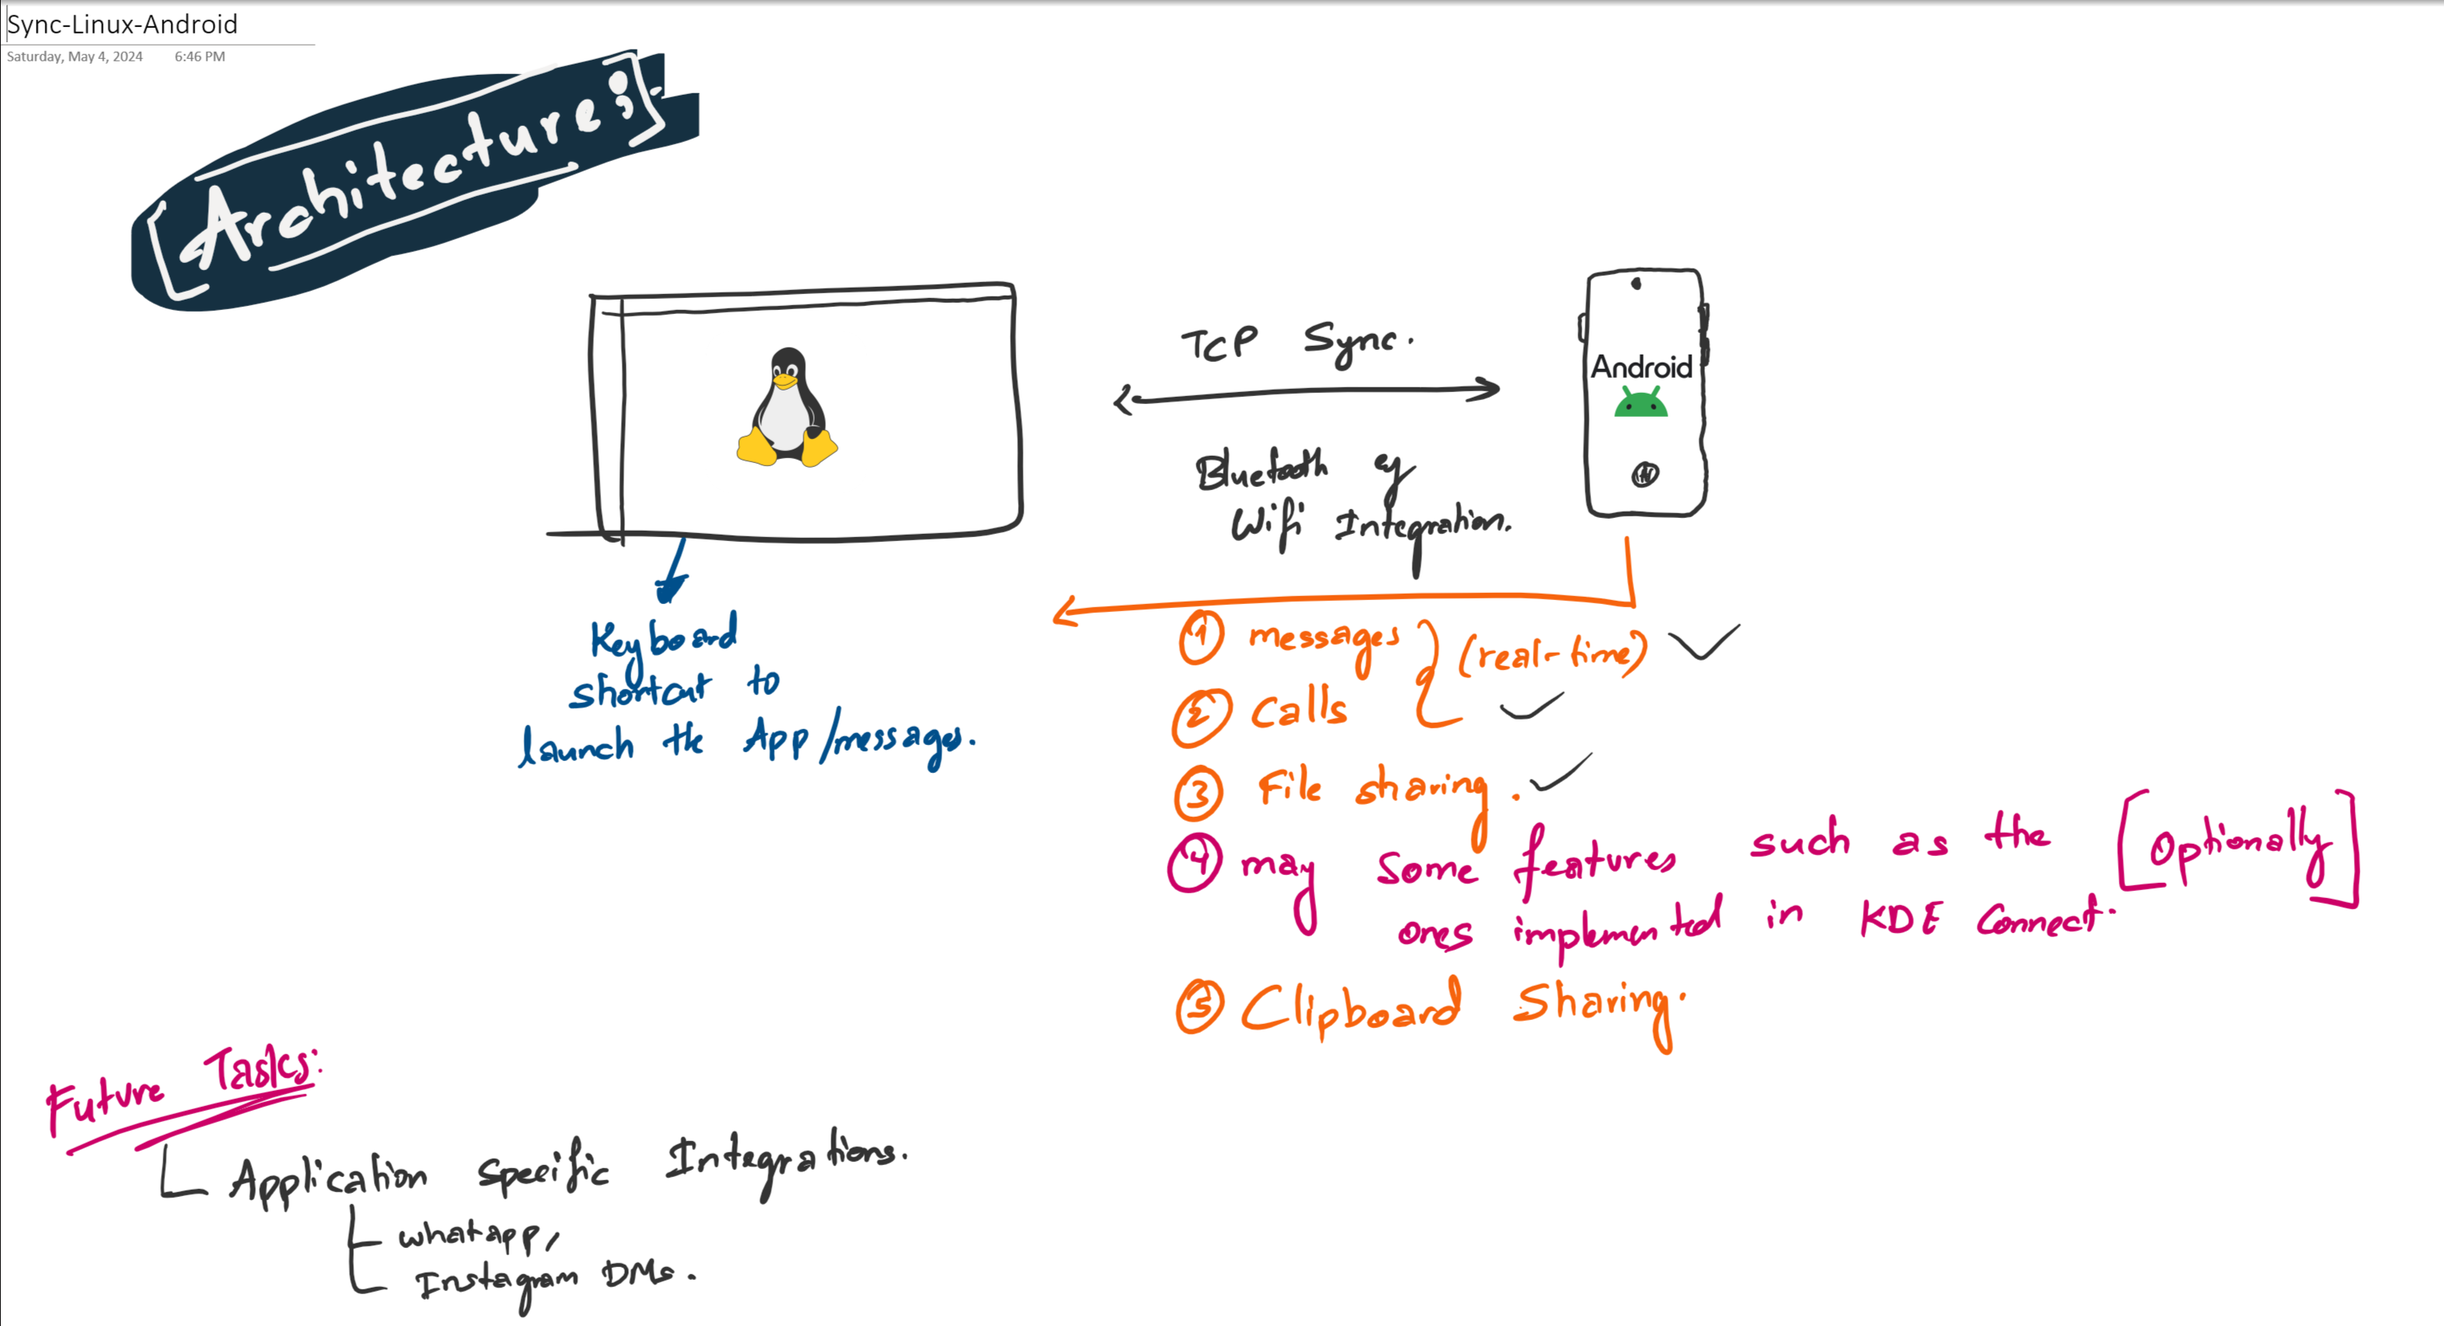
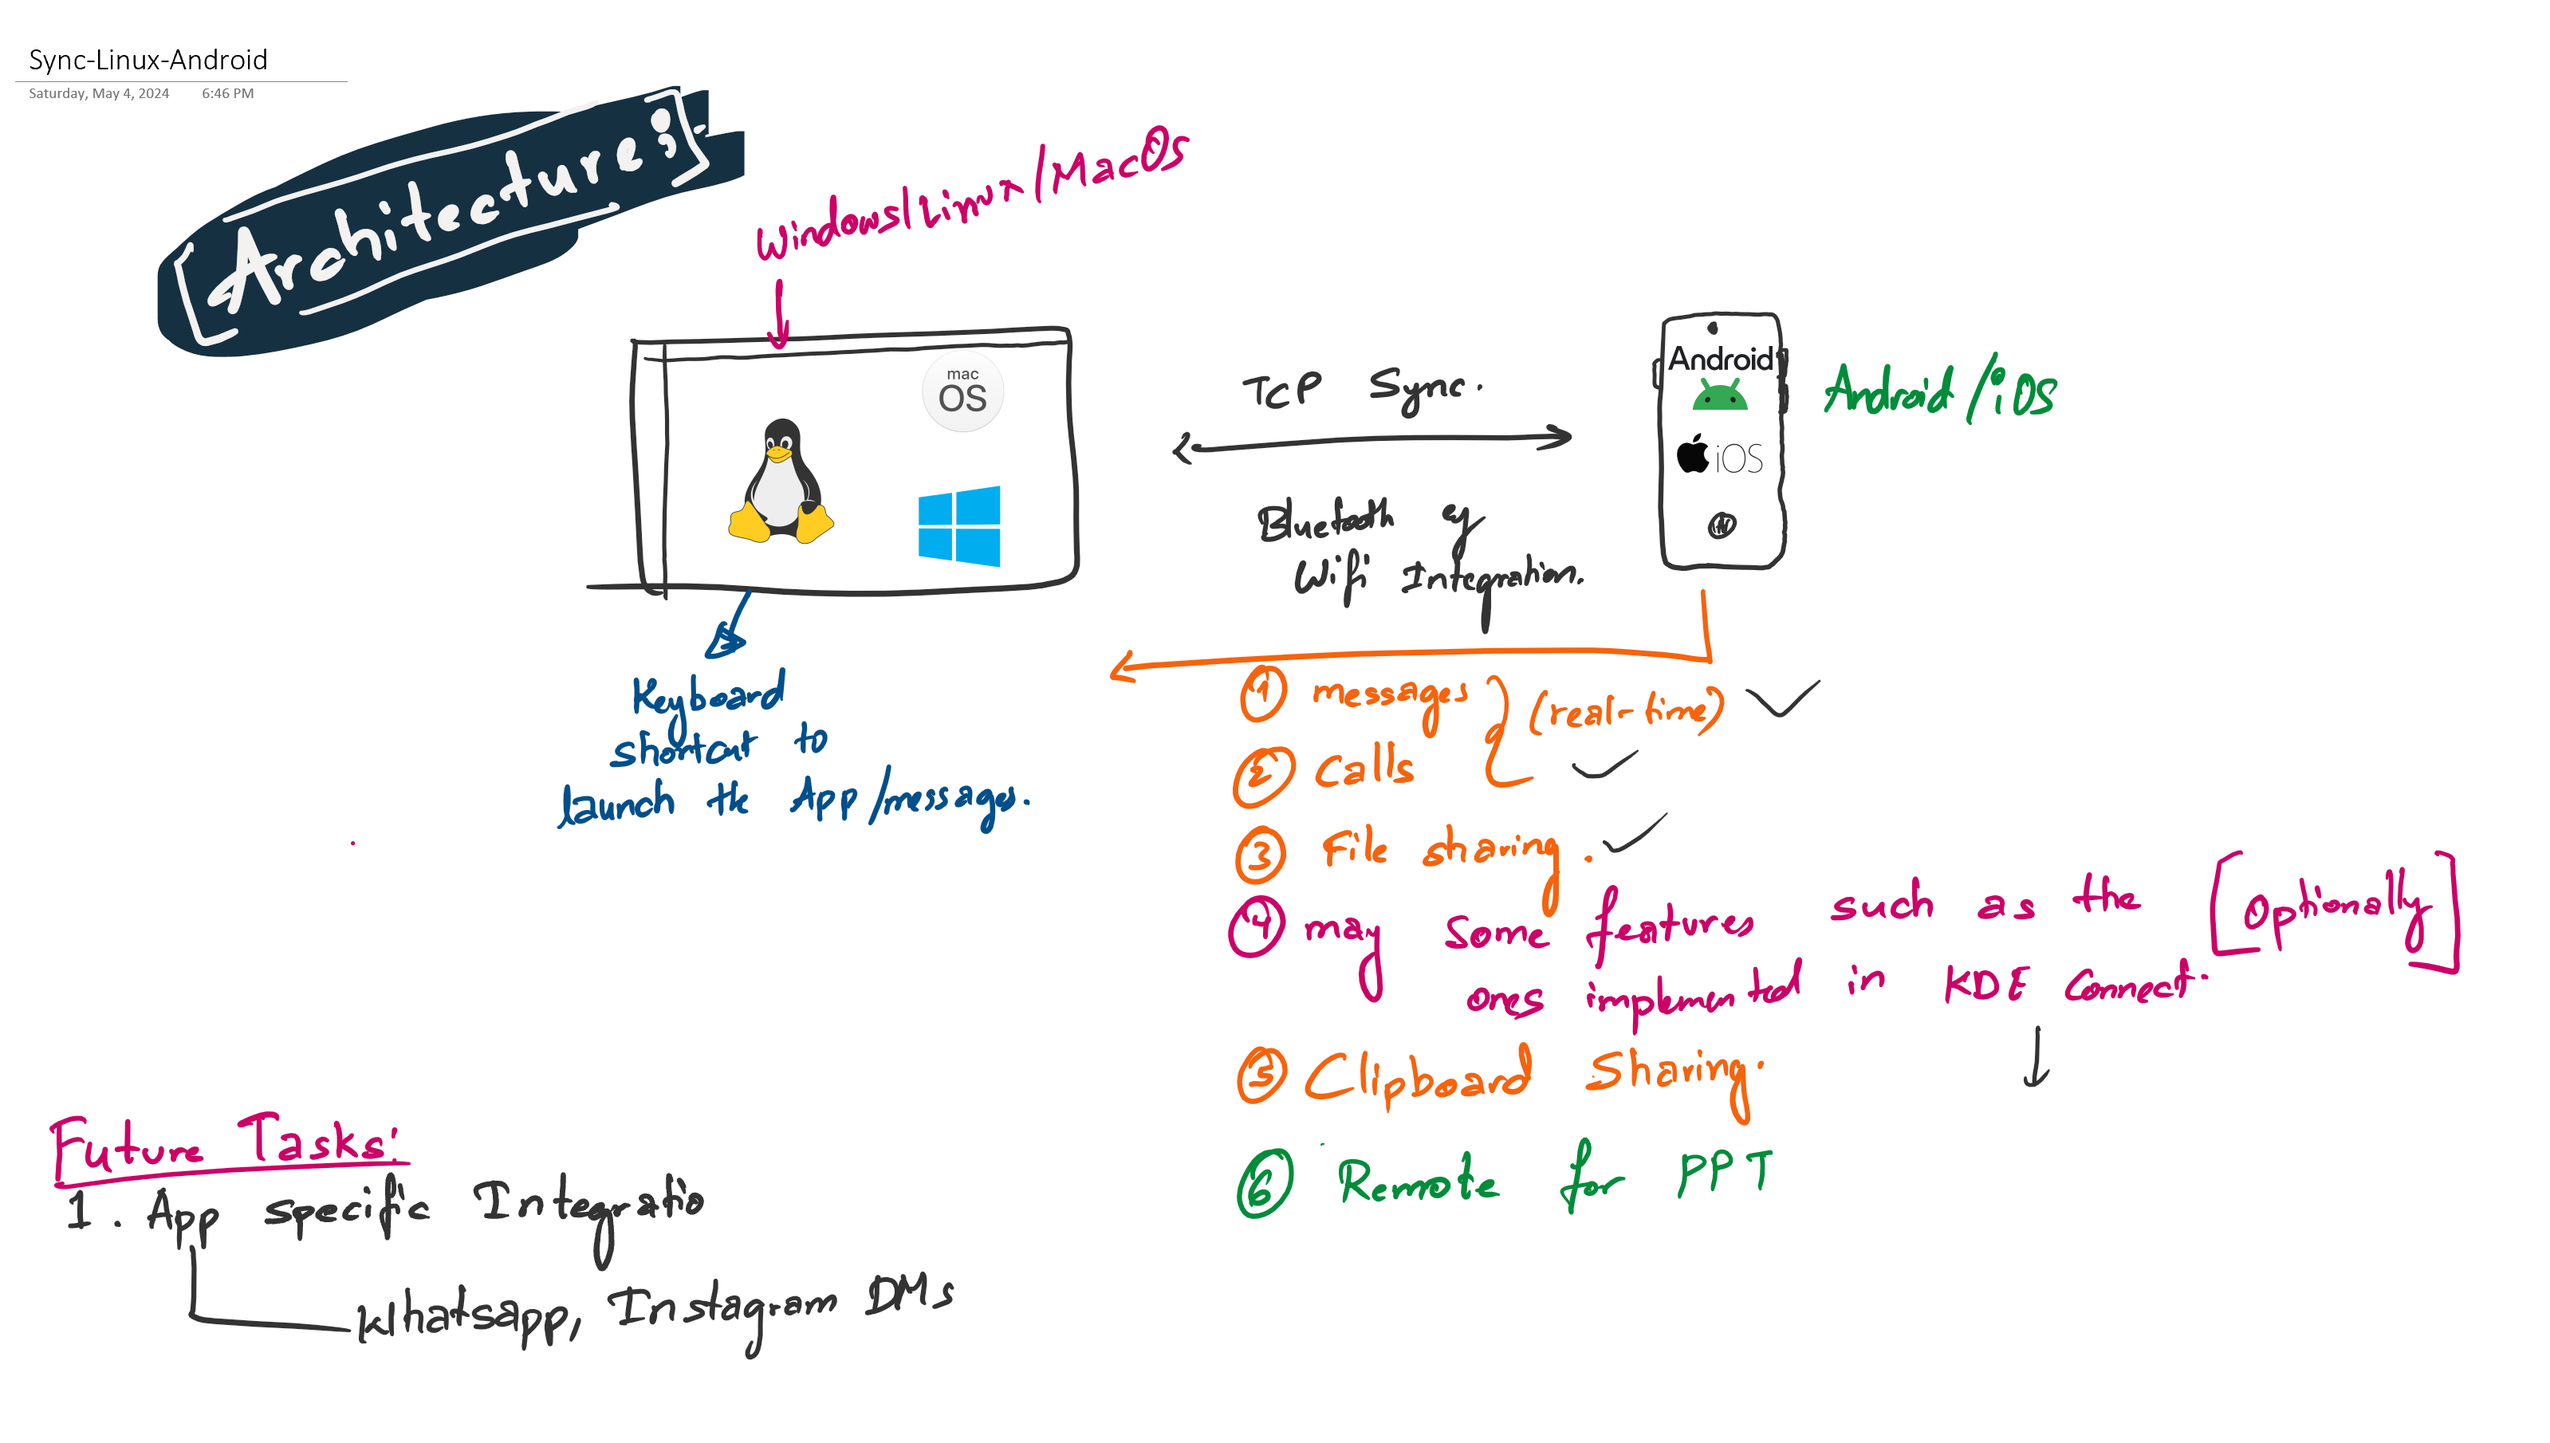
finalised tech stack and architecture

diff --git a/C++/src/main.cpp b/C++/src/main.cpp
@@ -1,0 +1,56 @@
+#include <iostream>
+#include <boost/asio.hpp>
+
+using namespace boost::asio;
+using ip::tcp;
+
+class MyAPI {
+public:
+    MyAPI(io_service& io_service, int port)
+        : acceptor_(io_service, tcp::endpoint(tcp::v4(), port))
+    {
+        startAccept();
+    }
+
+private:
+    void startAccept() {
+        tcp::socket socket(acceptor_.get_io_service());
+        acceptor_.async_accept(socket, [this](boost::system::error_code ec) {
+            if (!ec) {
+                handleRequest(std::move(socket));
+            }
+            startAccept();
+        });
+    }
+
+    void handleRequest(tcp::socket socket) {
+        boost::system::error_code ec;
+        char data[1024];
+        size_t length = socket.read_some(buffer(data), ec);
+        if (!ec) {
+            std::string request(data, length);
+            std::string response = processRequest(request);
+            boost::asio::write(socket, buffer(response));
+        }
+    }
+
+    std::string processRequest(const std::string& request) {
+        // Process the request and generate a response
+        return "Hello from MyAPI!";
+    }
+
+    tcp::acceptor acceptor_;
+};
+
+int main() {
+    try {
+        boost::asio::io_service io_service;
+        MyAPI api(io_service, 8080);
+        io_service.run();
+    }
+    catch (std::exception& e) {
+        std::cerr << "Exception: " << e.what() << std::endl;
+    }
+
+    return 0;
+}

diff --git a/README.md b/README.md
@@ -6,27 +6,43 @@ A Linux app that synchronises the incoming texts and calls from your android pho
 
 ![Architecture](./Flow/Architecture.png)
 
-### Tech Stack
+### Finalized Tech Stack
 
 ![Tech_Stack](./Flow/TechStack.png)
 
 
-### Possile Implementation for GUI:
+### Possible Implementation for GUI
 
-1. Dear ImGUI:
+1. Flutter:
 
-[Dear ImGui](https://github.com/ocornut/imgui): Bloat-free Graphical User interface for C++ with minimal dependencies. 
+    > Programming Language: Dart
 
-Setup for ImGUI:
+    > Database: SQLite
 
-I'll be using `glut` library for the rendering. 
+    Upon on basic search on internet, we can use flutter to build native desktop applications which are much better than electron based or react-native. 
 
-```bash
-sudo apt install freeglut3-dev g++ make cmake
-```
+    For both Mobile and Desktop applications, I will be using Flutter. I'm completely new at the time of writing this but I'll eventually learn and implement the logic for this application. 
 
-[Optionally `x11` for docker container]
 
-```bash
-sudo apt install x11 x11-apps
-```
+2. Dear ImGUI:
+
+    [Dear ImGui](https://github.com/ocornut/imgui): Bloat-free Graphical User interface for C++ with minimal dependencies. 
+
+    Setup for ImGUI:
+
+    I'll be using `glut` library for the rendering. 
+
+    ```bash
+    sudo apt install freeglut3-dev g++ make cmake
+    ```
+
+    [Optionally `x11` for docker container]
+
+    ```bash
+    sudo apt install x11 x11-apps
+    ```
+
+
+## Contributions / Collaboration
+
+Please reach out to me at [linkedin.com/in/belanasaikiran](https://www.linkedin.com/in/belanasaikiran)
